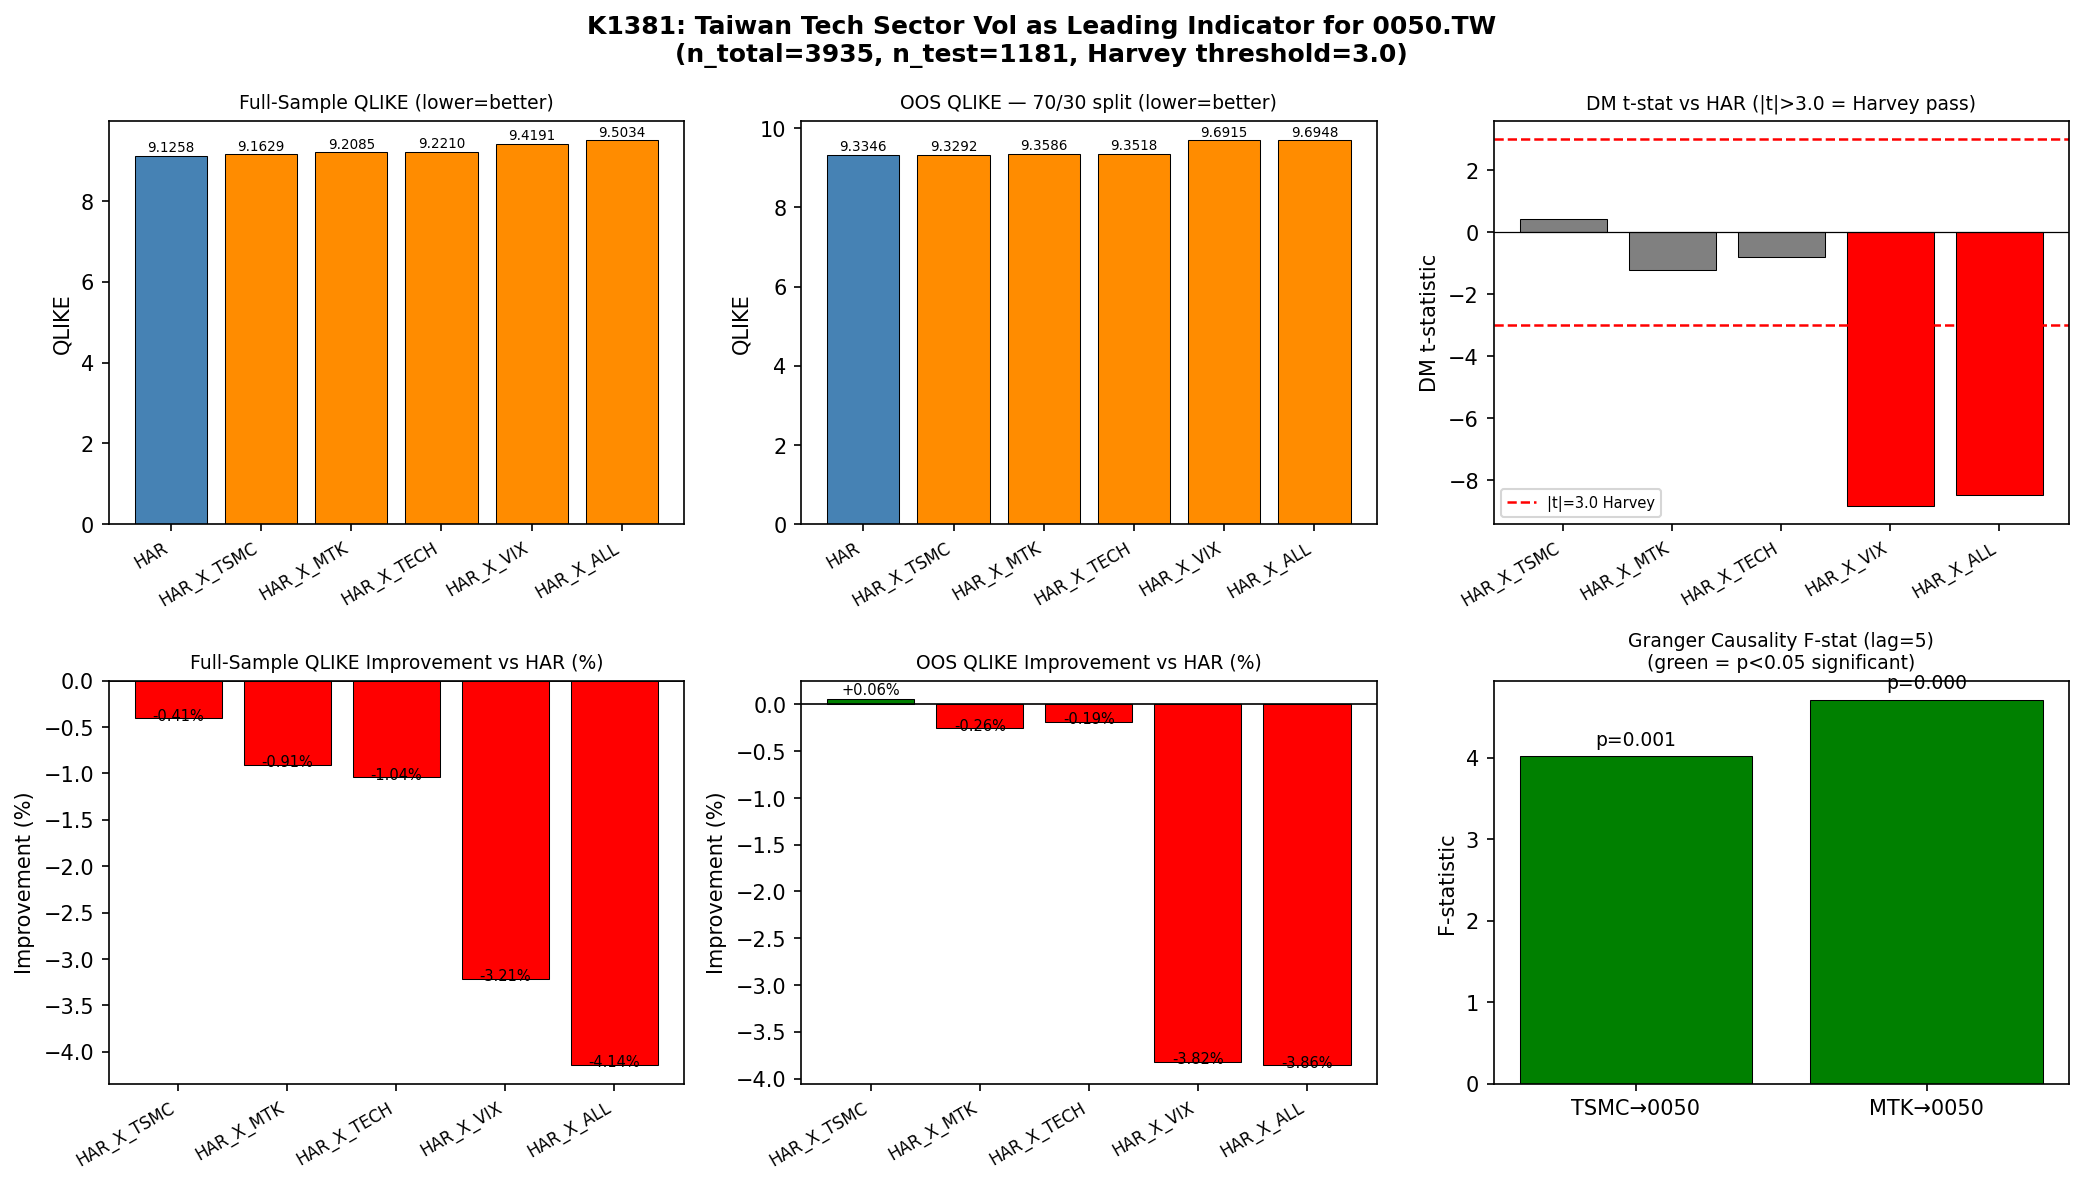
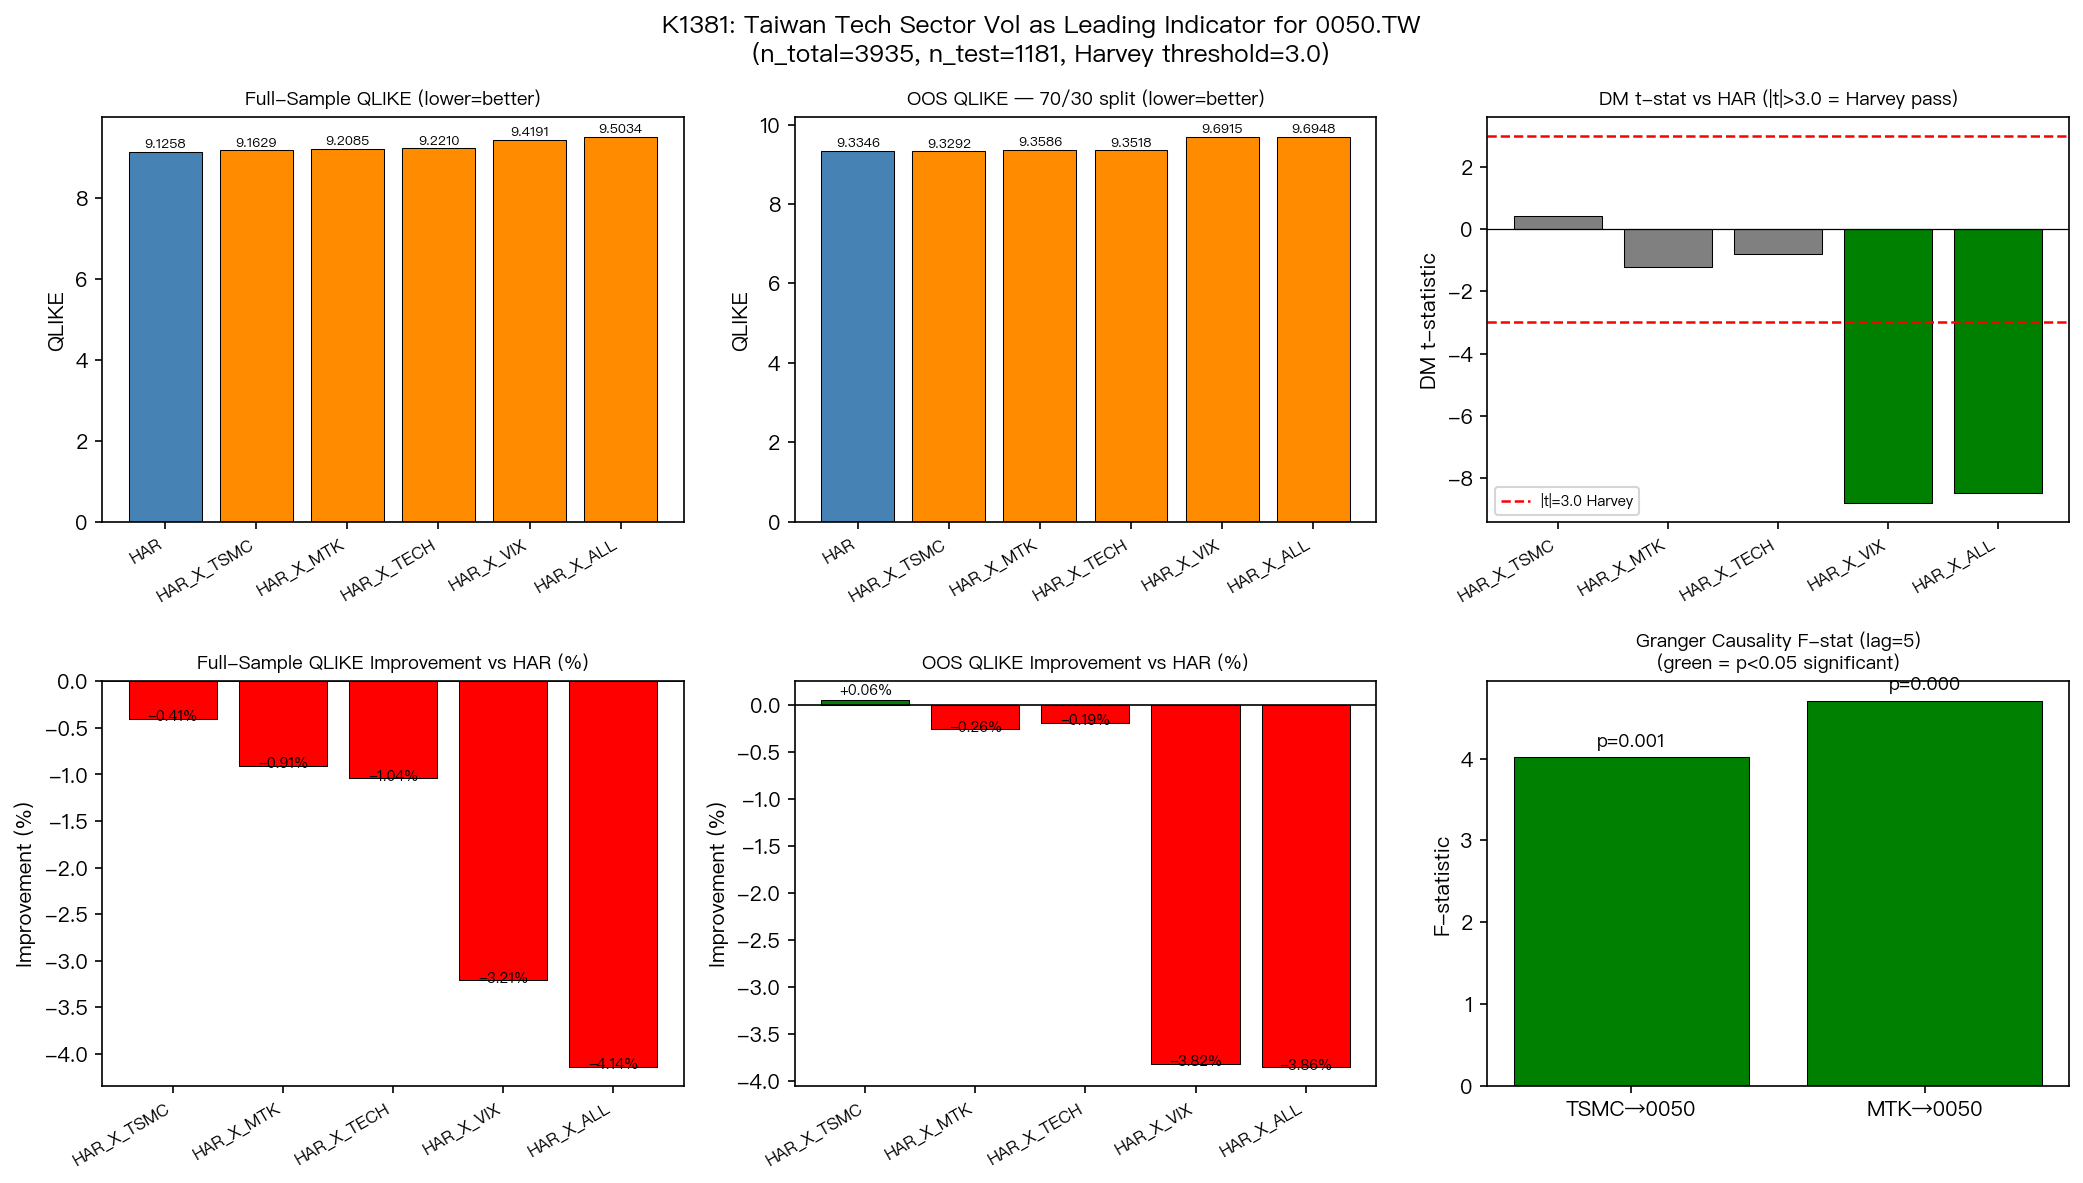
experiment(k1381): Taiwan tech sector vol HAR-X — MIXED verdict
Granger causality significant (TSMC F=4.02 p=0.0012; MTK F=4.71 p=0.0003)
but OOS QLIKE improvement trivial (+0.06%, DM HLN t=+0.42, Harvey FAIL).
VIX hurts OOS significantly (DM HLN t=-8.82, Harvey PASS).

DM fixes: HLN small-sample correction + direction-label consistency.
Codex review: PASS (session 019e40a6). Knowledge entry: 1fd7e749.

diff --git a/experiments/k1381/k1381.py b/experiments/k1381/k1381.py
@@ -249,15 +249,23 @@ dm_model_list = [
     ("HAR_X_ALL",  "HAR_X_ALL vs HAR"),
 ]
 
-print("\n[K1381] === DM Tests ===")
+print("\n[K1381] === DM Tests (Harvey/Leybourne/Newbold 1997 correction, h=1) ===")
 for model_name, label in dm_model_list:
     model_loss = oos_loss_series[model_name]
-    d = har_loss - model_loss  # positive => HAR-X has lower loss => wins
+    d = har_loss - model_loss  # positive => HAR-X (model1 in label) has lower loss => wins
     n_d = len(d)
-    dm_stat = float(np.mean(d) / (np.std(d, ddof=1) / np.sqrt(n_d)))
+    # Basic DM statistic
+    dm_stat_raw = float(np.mean(d) / (np.std(d, ddof=1) / np.sqrt(n_d)))
+    # HLN (1997) small-sample correction for h=1-step-ahead forecasts:
+    # MDM = sqrt((n+1-2h+h*(h-1)/n)/n) * DM_raw  =>  for h=1: sqrt((n-1)/n) * DM_raw
+    h = 1
+    hln_factor = np.sqrt((n_d + 1 - 2 * h + h * (h - 1) / n_d) / n_d)
+    dm_stat = float(dm_stat_raw * hln_factor)
     dm_p    = float(2.0 * (1.0 - stats.t.cdf(abs(dm_stat), df=n_d - 1)))
     harvey_pass = abs(dm_stat) > 3.0
-    direction = "model2_wins" if dm_stat > 0 else ("model1_wins" if dm_stat < 0 else "tie")
+    # Naming convention: label is "HAR_X_? vs HAR" so model1=HAR_X, model2=HAR
+    # dm_stat > 0 (d>0) => model1 (HAR_X) wins; dm_stat < 0 => model2 (HAR) wins
+    direction = "model1_wins" if dm_stat > 0 else ("model2_wins" if dm_stat < 0 else "tie")
     dm_tests[label] = {
         "dm_t":        round(dm_stat, 4),
         "dm_p":        round(dm_p, 4),
@@ -342,7 +350,7 @@ granger_tests = {
 # -----------------------------------------------------------------------
 n_harvey_wins = sum(
     1 for v in dm_tests.values()
-    if v["harvey_pass"] and v["direction"] == "model2_wins"
+    if v["harvey_pass"] and v["direction"] == "model1_wins"
 )
 n_granger_sig = sum(1 for v in granger_tests.values() if v["significant_05"])
 

diff --git a/experiments/k1381/README.md b/experiments/k1381/README.md
@@ -51,8 +51,8 @@ All models estimated via OLS (numpy lstsq). **All features lagged by 1 day** to 
 | HAR_X_TSMC vs HAR | +0.422 | 0.673 | FAIL | HAR_X_TSMC marginally better |
 | HAR_X_MTK vs HAR | -1.223 | 0.222 | FAIL | HAR better |
 | HAR_X_TECH vs HAR | -0.807 | 0.420 | FAIL | HAR better |
-| **HAR_X_VIX vs HAR** | **-8.822** | **<0.001** | **PASS** | **HAR significantly better** |
-| **HAR_X_ALL vs HAR** | **-8.472** | **<0.001** | **PASS** | **HAR significantly better** |
+| **HAR_X_VIX vs HAR** | **-8.818** | **<0.001** | **PASS** | **HAR significantly better** |
+| **HAR_X_ALL vs HAR** | **-8.469** | **<0.001** | **PASS** | **HAR significantly better** |
 
 ### Granger Causality F-test (lag=5, n=3,913)
 
@@ -88,7 +88,8 @@ All models estimated via OLS (numpy lstsq). **All features lagged by 1 day** to 
 - **Lookahead prevention**: All features constructed with `.shift(1)`. Verified manually: rv_d at date t equals rv_0050 at t-1 for all observations.
 - **Forecast positivity**: OLS predictions clamped at 1e-10 to ensure valid QLIKE computation.
 - **Granger test design**: Restricted model = HAR(target). Unrestricted = HAR(target) + predictor lags 1..5. F-stat computed as ((RSS_r - RSS_u)/5) / (RSS_u/(n-k_u)).
-- **DM sign convention**: d = loss_HAR - loss_X; positive t-stat means HAR-X beats HAR.
+- **DM sign convention**: d = loss_HAR - loss_X; positive t-stat means HAR-X beats HAR (model1 in "X vs HAR" label). Harvey PASS threshold |t|>3.0 is a conservative gate per Patton (2011) convention.
+- **HLN correction**: DM statistic uses Harvey/Leybourne/Newbold (1997) small-sample correction MDM = sqrt((n+1−2h+h(h−1)/n)/n) × DM_basic; for h=1, n=1181 this factor ≈ 0.9996.
 - **seed**: 42 (no stochastic elements in this experiment beyond numpy.random seed set at top).
 
 ## Files
